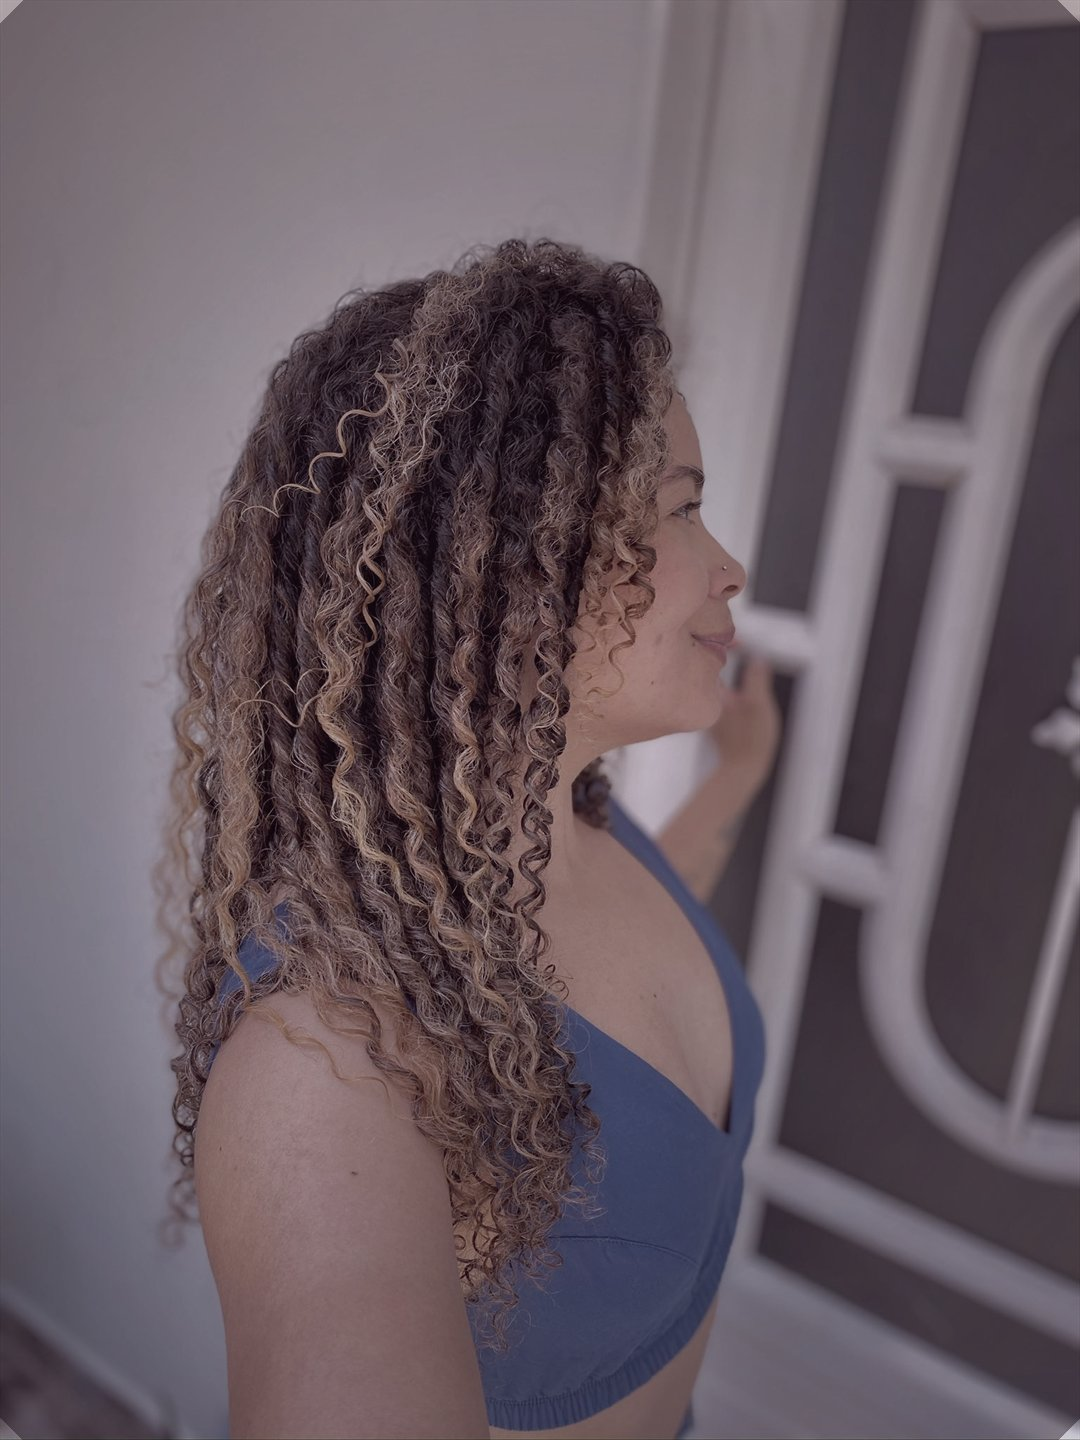
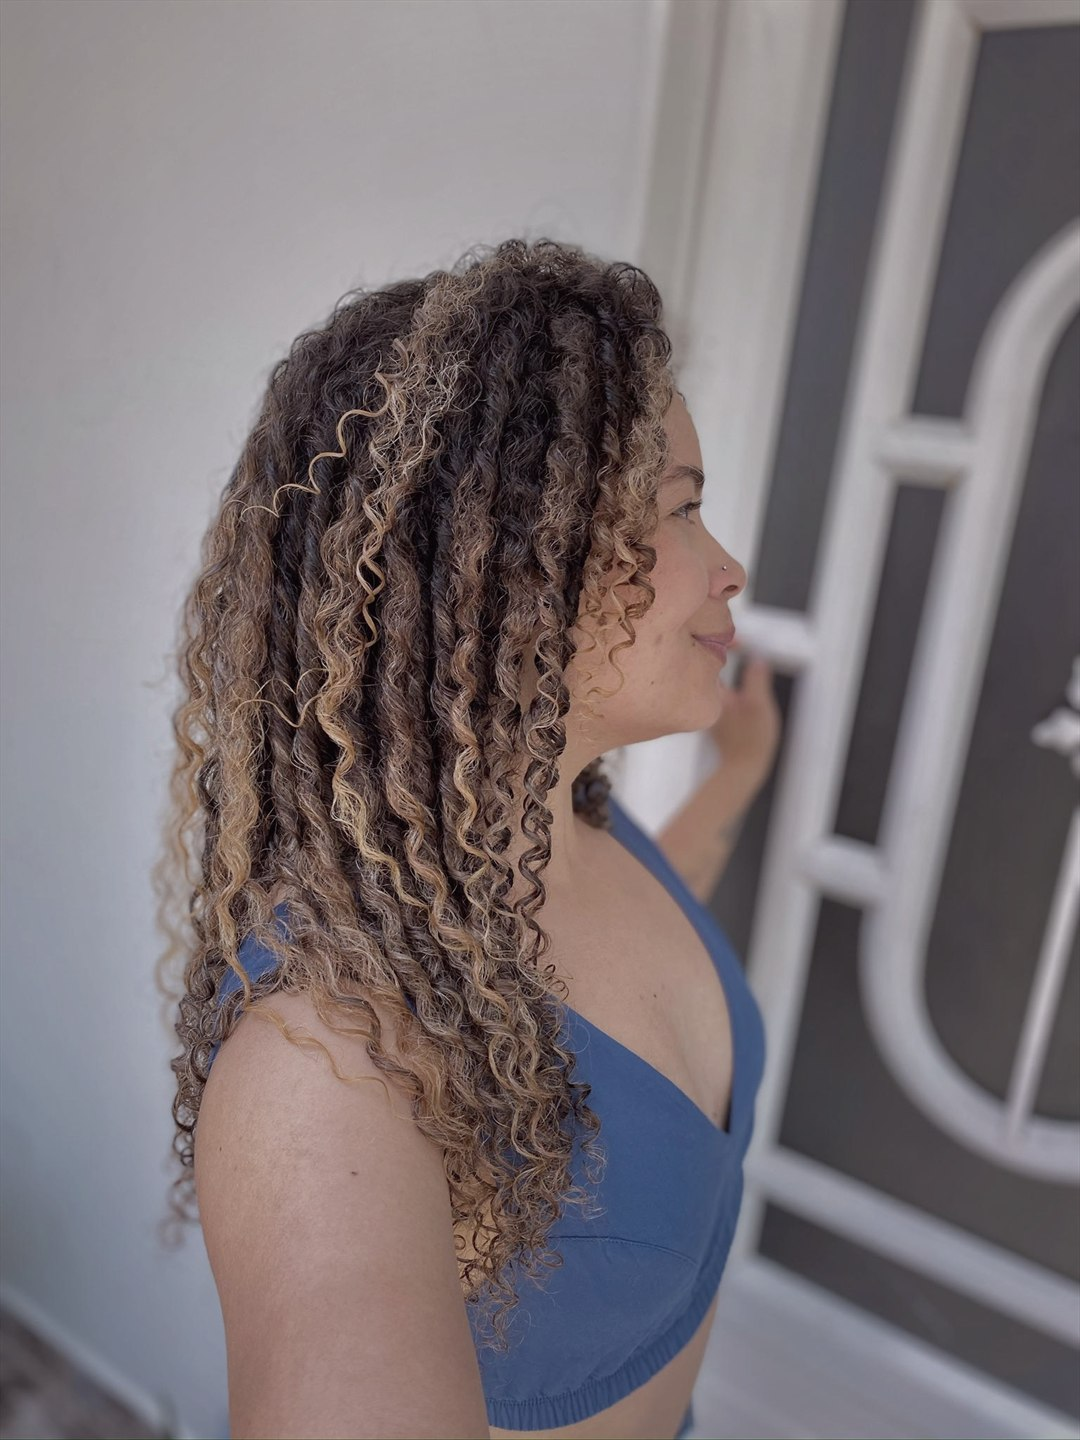
Foto mas presente: velos mas ligeros y tratamiento suave

diff --git a/index.html b/index.html
@@ -81,17 +81,17 @@
     position:fixed;inset:0;z-index:1;pointer-events:none;
     background:
       linear-gradient(180deg,
-        rgba(17,6,15,.96) 0%,
-        rgba(17,6,15,.86) 10%,
-        rgba(20,8,16,.52) 21%,
-        rgba(23,10,19,.18) 32%,
+        rgba(17,6,15,.92) 0%,
+        rgba(17,6,15,.72) 10%,
+        rgba(20,8,16,.34) 21%,
+        rgba(23,10,19,.10) 32%,
         rgba(23,10,19,0) 44%,
-        rgba(23,10,19,.22) 58%,
-        rgba(23,10,19,.72) 74%,
-        rgba(17,6,15,.96) 88%,
+        rgba(23,10,19,.12) 58%,
+        rgba(23,10,19,.60) 74%,
+        rgba(17,6,15,.94) 88%,
         #11060F 100%),
-      radial-gradient(130% 90% at 72% 30%, rgba(17,6,15,0) 26%, rgba(17,6,15,.42) 100%),
-      radial-gradient(70% 22% at 50% 8%, rgba(17,6,15,.6), rgba(17,6,15,0) 78%),
+      radial-gradient(130% 90% at 72% 30%, rgba(17,6,15,0) 30%, rgba(17,6,15,.26) 100%),
+      radial-gradient(70% 22% at 50% 8%, rgba(17,6,15,.55), rgba(17,6,15,0) 78%),
       radial-gradient(90% 60% at 70% 20%, rgba(214,174,105,.14), rgba(214,174,105,0) 62%);
   }
 
